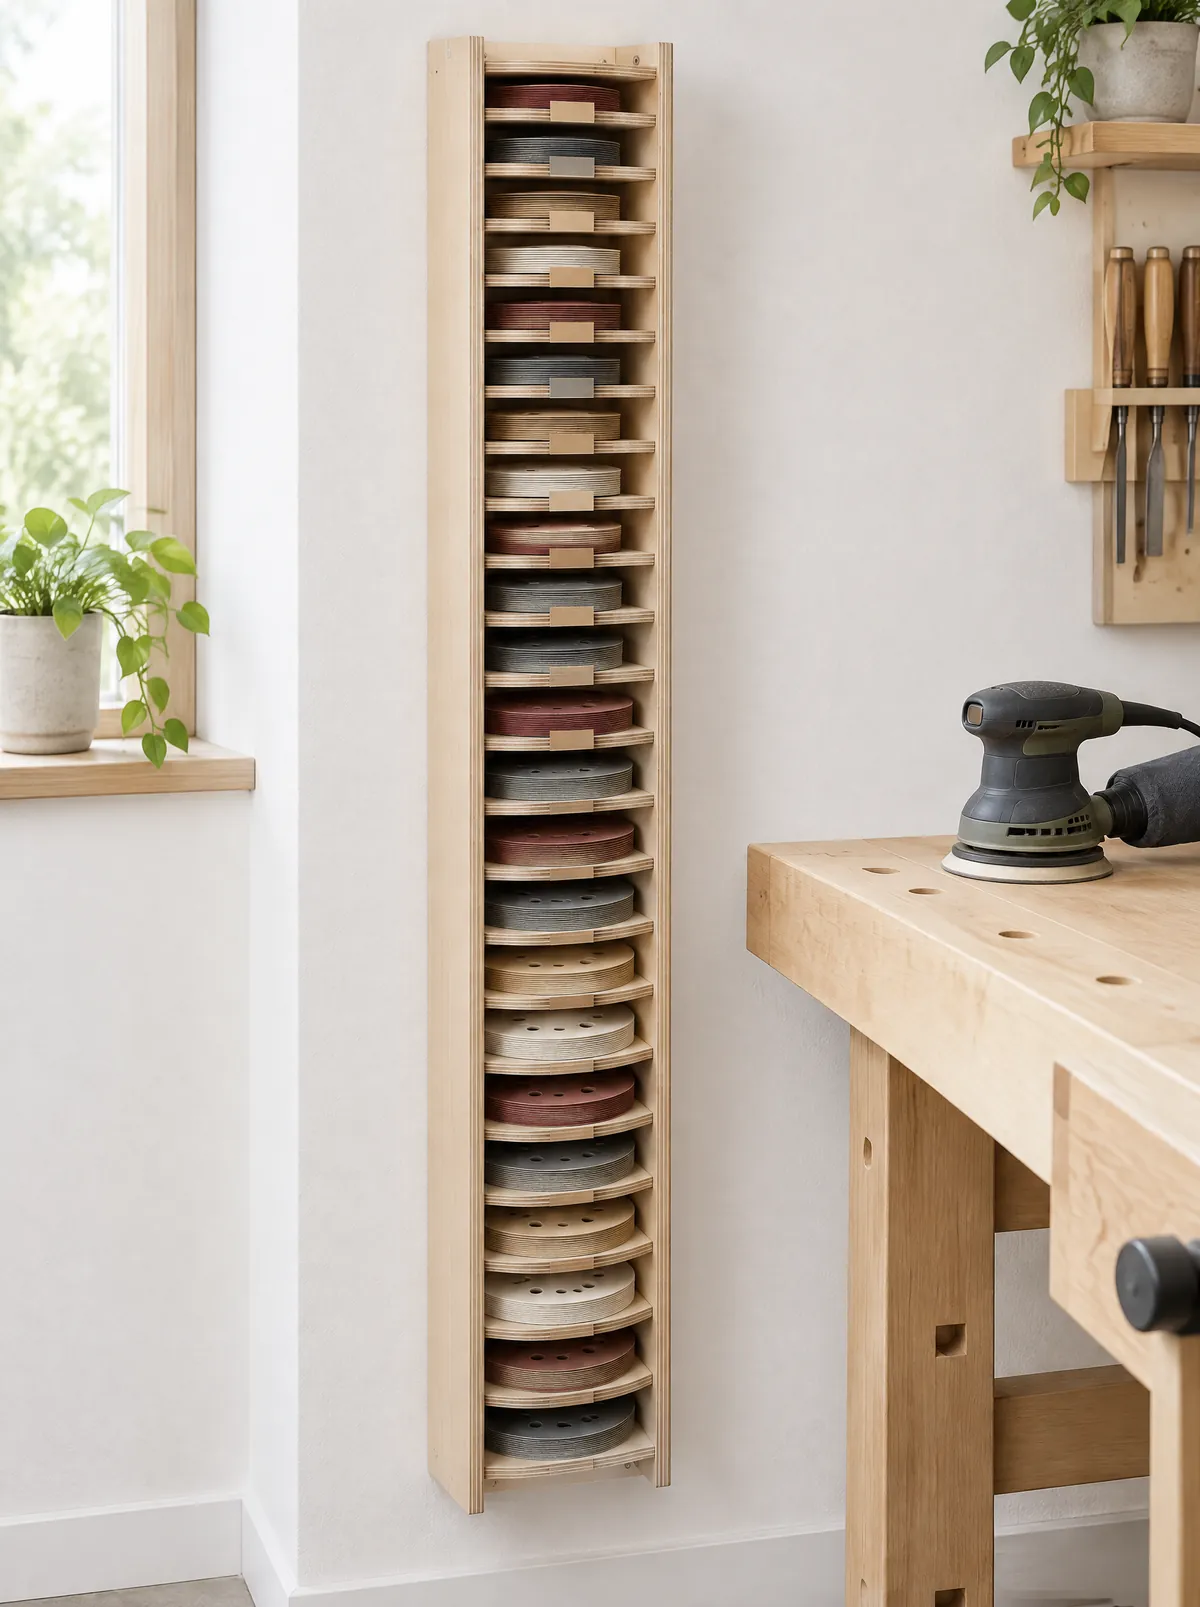
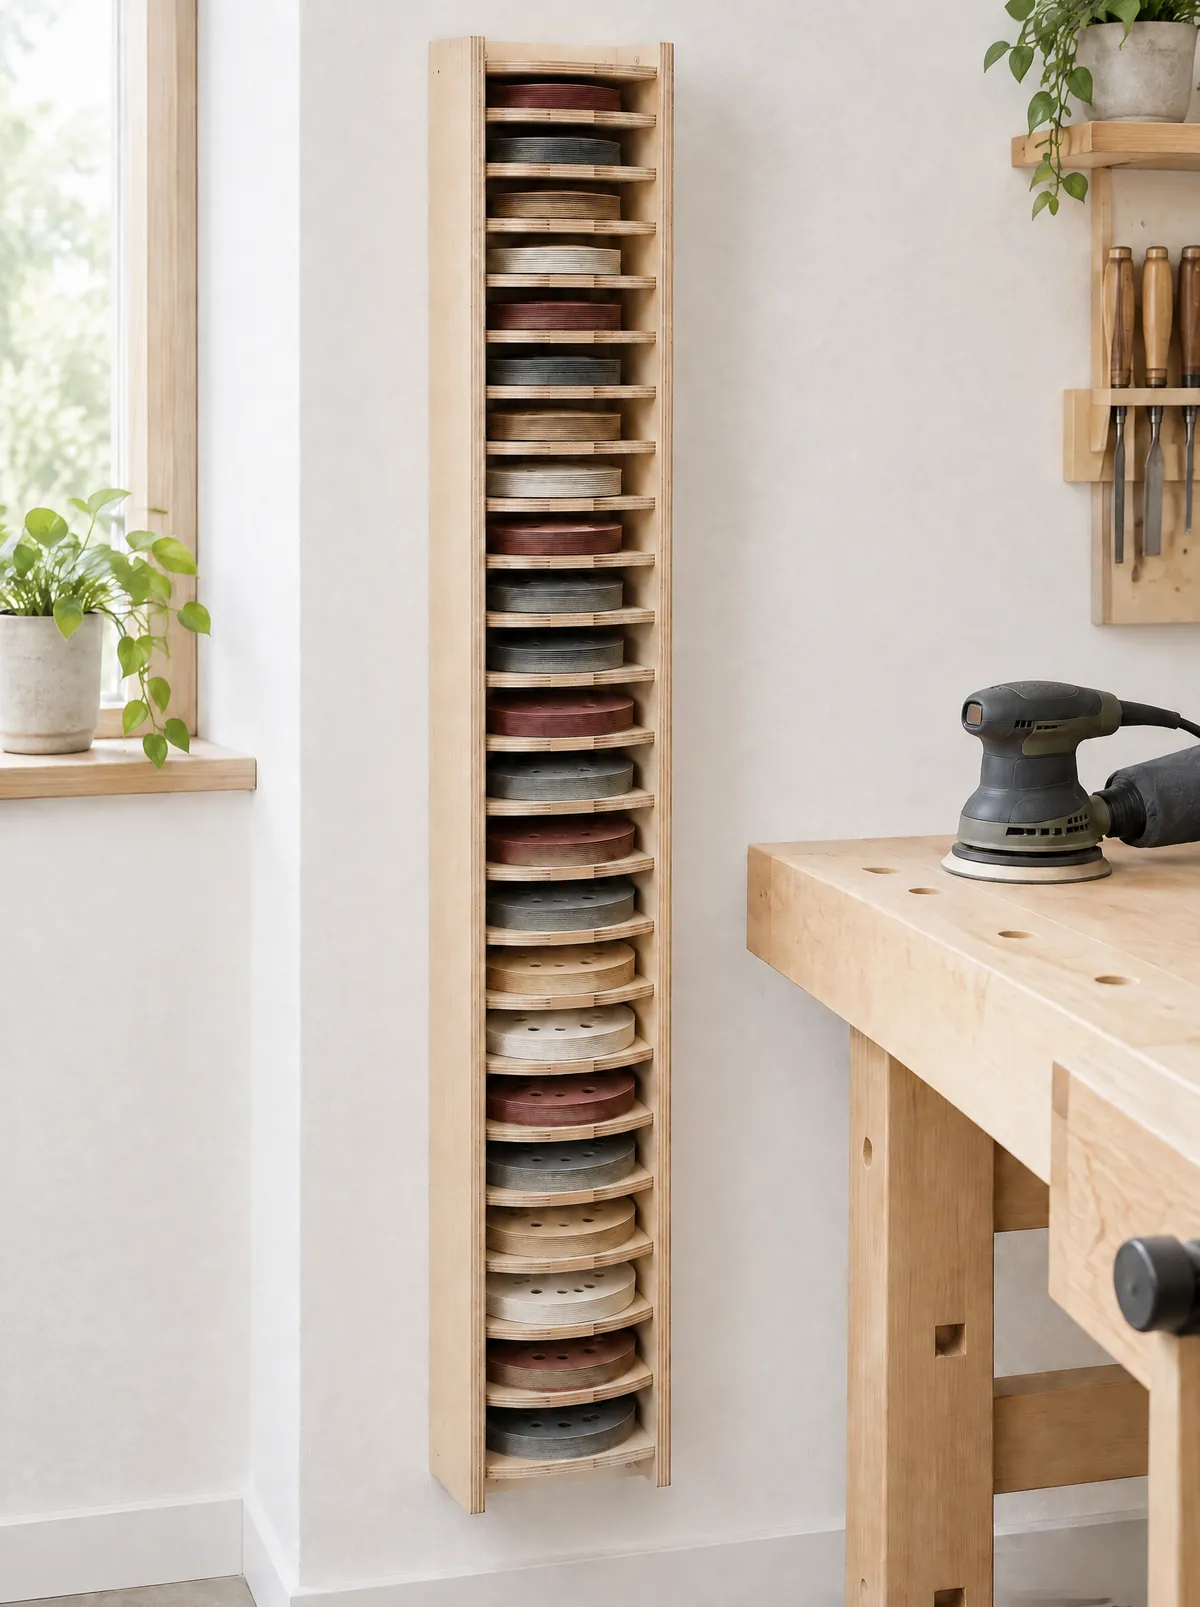
Oprava obrázkov podľa pripomienok, klikateľné karty projektov
Zakladač na brúsne kotúče:
- hlavná fotka bez nálepiek na policiach
- krok 3: tenká 6 mm preglejka, uholník v rohu, klincovačka v rovine police
- krok 4: bez zvislých líšt, s namontovanými bočnicami
- krok 6: zrnitosť sa píše fixom na bočnicu (nálepky sa krčia),
  upravený text a zoznam materiálu

Polička na kľúče:
- krok 3: obdĺžniková zadná doska, brúska brúsi jej plochu
- krok 5: polička so svorkami a uholníkom, bez dier a falcu

Hlavná stránka: celá karta projektu (aj obrázok) otvára návod.

Claude-Session: https://claude.ai/code/session_01Y7F8DJ1AwQGECbsVgxHgKv

diff --git a/sandpaper.html b/sandpaper.html
@@ -78,7 +78,7 @@
           <ul class="ticks">
             <li>Hrubé zrnitosti P40 až P80 sa míňajú najrýchlejšie, preto majú najvyššie priečinky.</li>
             <li>Jemné zrná postupne menej, P400 stačia 4 cm.</li>
-            <li>Štítok na hrane police vidíš bez prehrabávania.</li>
+            <li>Zrnitosť je napísaná na bočnici, takže ju vidíš bez prehrabávania.</li>
             <li>Kotúč vytiahneš jednou rukou, nič neohýbaš.</li>
           </ul>
 
@@ -246,7 +246,7 @@
             <ul class="check" data-checklist="sandpaper-fix">
               <li><label><input type="checkbox"><span class="what">Nástrelovacie klince</span><span class="qty">20–25 mm</span></label></li>
               <li><label><input type="checkbox"><span class="what">Vruty a hmoždinky podľa steny</span><span class="qty">2–4 ks</span></label></li>
-              <li><label><input type="checkbox"><span class="what">Papierové štítky</span><span class="qty">20 ks</span></label></li>
+              <li><label><input type="checkbox"><span class="what">Permanentný fix (čierny, tenký hrot)</span></label></li>
             </ul>
             <p class="list-note">Bez lepidla. Nástrelovací spoj drží hneď a netreba čakať.</p>
           </div>
@@ -300,7 +300,7 @@
 
           <li class="step">
             <figure class="step-media">
-              <img src="assets/img/sandpaper-step-3.webp" srcset="assets/img/sandpaper-step-3-800.webp 800w, assets/img/sandpaper-step-3.webp 1400w" sizes="(max-width: 860px) 100vw, 55vw" width="1400" height="1045" loading="lazy" alt="Prvá polica pritlačená uholníkom k bočnici, klincovačka mieri na výšku police">
+              <img src="assets/img/sandpaper-step-3.webp" srcset="assets/img/sandpaper-step-3-800.webp 800w, assets/img/sandpaper-step-3.webp 1400w" sizes="(max-width: 860px) 100vw, 55vw" width="1400" height="1045" loading="lazy" alt="Tenká bočnica stojí na hrane, polica k nej prilieha v pravom uhle, uholník v rohu a klincovačka v rovine police">
             </figure>
             <div>
               <span class="step-num"><b>3</b> z 6</span>
@@ -313,7 +313,7 @@
 
           <li class="step">
             <figure class="step-media">
-              <img src="assets/img/sandpaper-step-4.webp" srcset="assets/img/sandpaper-step-4-800.webp 800w, assets/img/sandpaper-step-4.webp 1400w" sizes="(max-width: 860px) 100vw, 55vw" width="1400" height="1045" loading="lazy" alt="Rozpracovaný stojan ležiaci na stole, ruka skúša vložiť brúsny kotúč do priečinka">
+              <img src="assets/img/sandpaper-step-4.webp" srcset="assets/img/sandpaper-step-4-800.webp 800w, assets/img/sandpaper-step-4.webp 1400w" sizes="(max-width: 860px) 100vw, 55vw" width="1400" height="1045" loading="lazy" alt="Stojan ležiaci na chrbte s namontovanými bočnicami, horná polovica políc hotová, ruka skúša vložiť kotúč">
             </figure>
             <div>
               <span class="step-num"><b>4</b> z 6</span>
@@ -347,7 +347,7 @@
 
           <li class="step">
             <figure class="step-media">
-              <img src="assets/img/sandpaper-step-6.webp" srcset="assets/img/sandpaper-step-6-800.webp 800w, assets/img/sandpaper-step-6.webp 1400w" sizes="(max-width: 860px) 100vw, 55vw" width="1400" height="1045" loading="lazy" alt="Ruka vyťahuje jeden brúsny kotúč z naplneného priečinka">
+              <img src="assets/img/sandpaper-step-6.webp" srcset="assets/img/sandpaper-step-6-800.webp 800w, assets/img/sandpaper-step-6.webp 1400w" sizes="(max-width: 860px) 100vw, 55vw" width="1400" height="1045" loading="lazy" alt="Ruka píše fixom zrnitosť P120 na bočnicu vedľa priečinka s kotúčmi">
             </figure>
             <div>
               <span class="step-num"><b>6</b> z 6</span>
@@ -355,7 +355,7 @@
               <p class="text">Hornú desiatku použi pre Ø125 mm, dolnú pre Ø150 mm. V oboch drž rovnaké poradie od hrubého po jemné: <strong>P40 → P400</strong>. Po správnom kotúči potom siahneš bez hľadania.</p>
               <ul class="points">
                 <li>Jedna zrnitosť, jeden priečinok. P80 a P100 nemiešaj.</li>
-                <li>Štítok daj na prednú hranu police, nech je vidieť z diaľky.</li>
+                <li>Zrnitosť napíš fixom priamo na čelo bočnice vedľa priečinka. Nálepka by sa pri vyberaní kotúčov pokrčila a odlepila.</li>
                 <li>Neprepĺňaj. Kotúč musí ísť von bez ohýbania.</li>
               </ul>
             </div>

diff --git a/key-shelf.html b/key-shelf.html
@@ -187,7 +187,7 @@
 
           <li class="step">
             <figure class="step-media">
-              <img src="assets/img/key-shelf-step-3.webp" width="1400" height="792" loading="lazy" alt="Brúsenie dubovej dosky excentrickou brúskou">
+              <img src="assets/img/key-shelf-step-3.webp" width="1400" height="792" loading="lazy" alt="Excentrická brúska brúsi obdĺžnikovú dubovú zadnú dosku, vedľa ležia polička a vanička">
             </figure>
             <div>
               <span class="step-num"><b>3</b> z 7</span>
@@ -211,7 +211,7 @@
 
           <li class="step">
             <figure class="step-media">
-              <img src="assets/img/key-shelf-step-5.webp" width="1400" height="792" loading="lazy" alt="Horná polička pritiahnutá svorkami k zadnej doske, uholník kontroluje pravý uhol">
+              <img src="assets/img/key-shelf-step-5.webp" width="1400" height="792" loading="lazy" alt="Horná polička pritiahnutá dvomi svorkami kolmo k zadnej doske, uholník v rohu a vŕtačka skrutkuje zozadu">
             </figure>
             <div>
               <span class="step-num"><b>5</b> z 7</span>

diff --git a/site.css b/site.css
@@ -170,7 +170,7 @@ p { margin: 0; }
 .card.is-soon h3 { font-size: 1.15rem; }
 .card p { margin-top: 6px; color: var(--ink-2); font-size: 0.97rem; }
 .card-link { text-decoration: none; }
-.card-link::after { content: ""; position: absolute; inset: 0; border-radius: var(--radius); }
+.card-link::after { content: ""; position: absolute; inset: 0; z-index: 3; border-radius: var(--radius); cursor: pointer; }
 .card-link:focus-visible { outline: none; }
 .card-link:focus-visible::after { outline: 3px solid var(--blue); outline-offset: 4px; }
 
